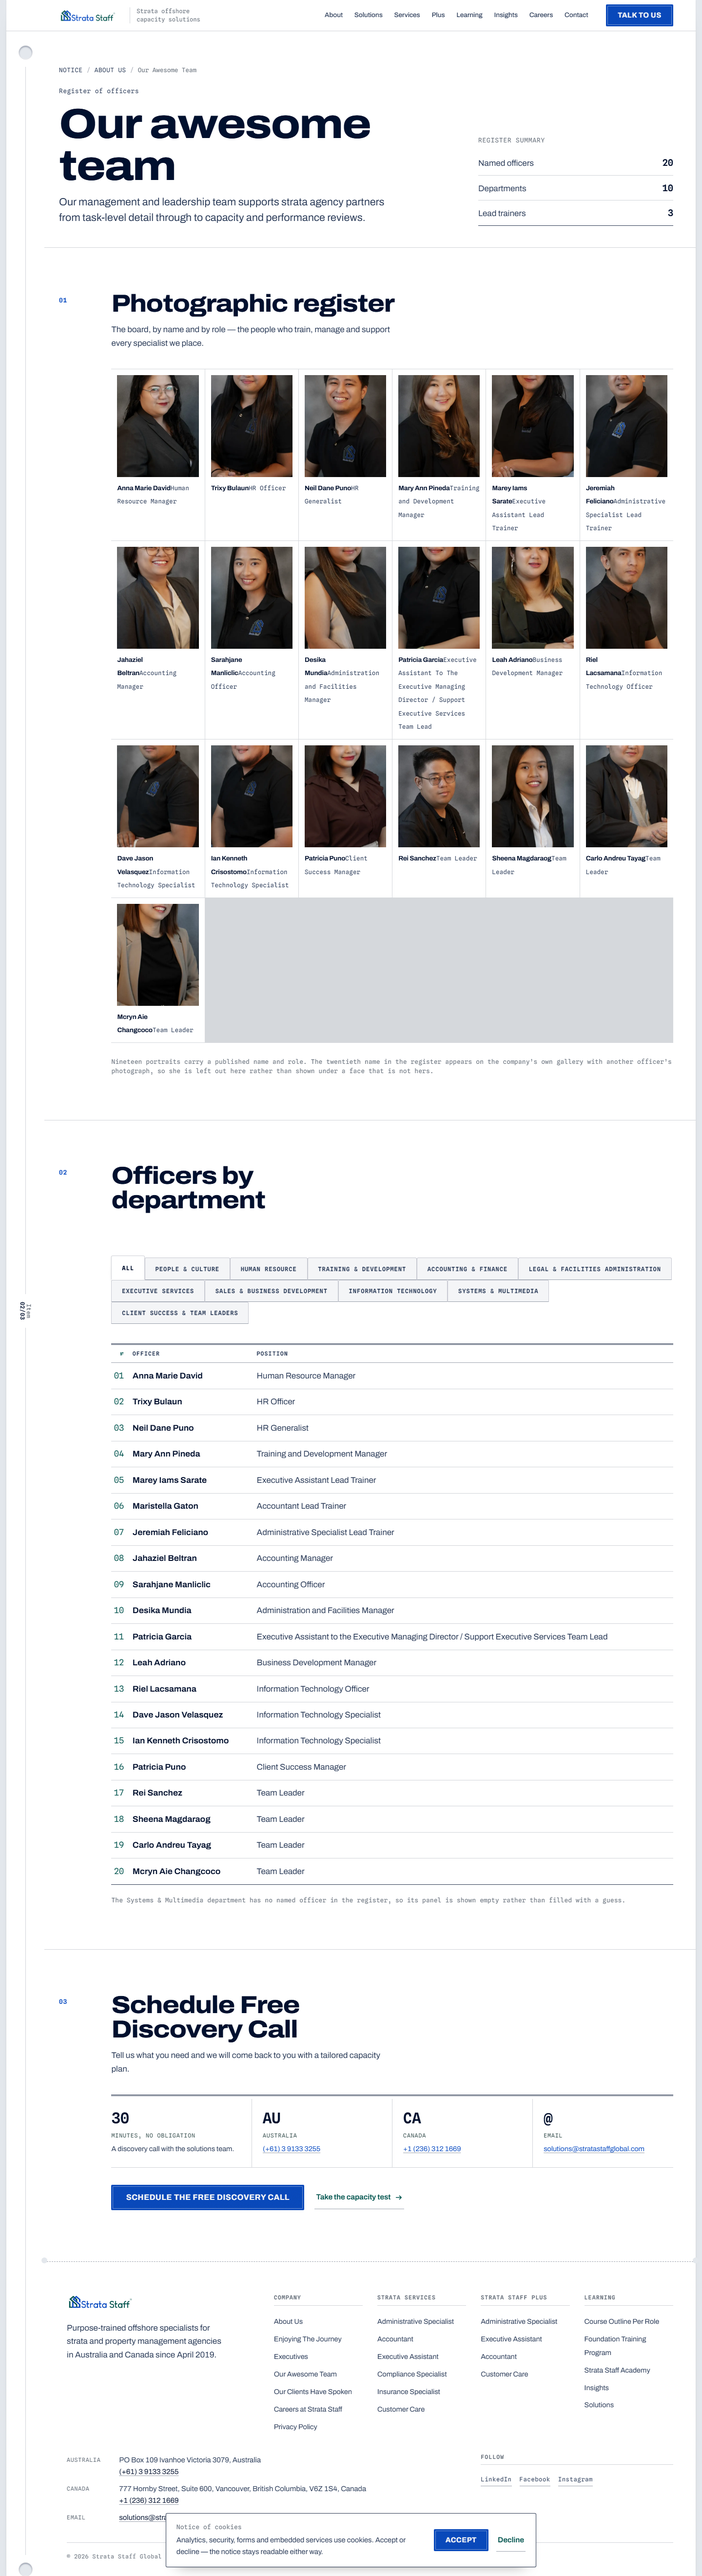
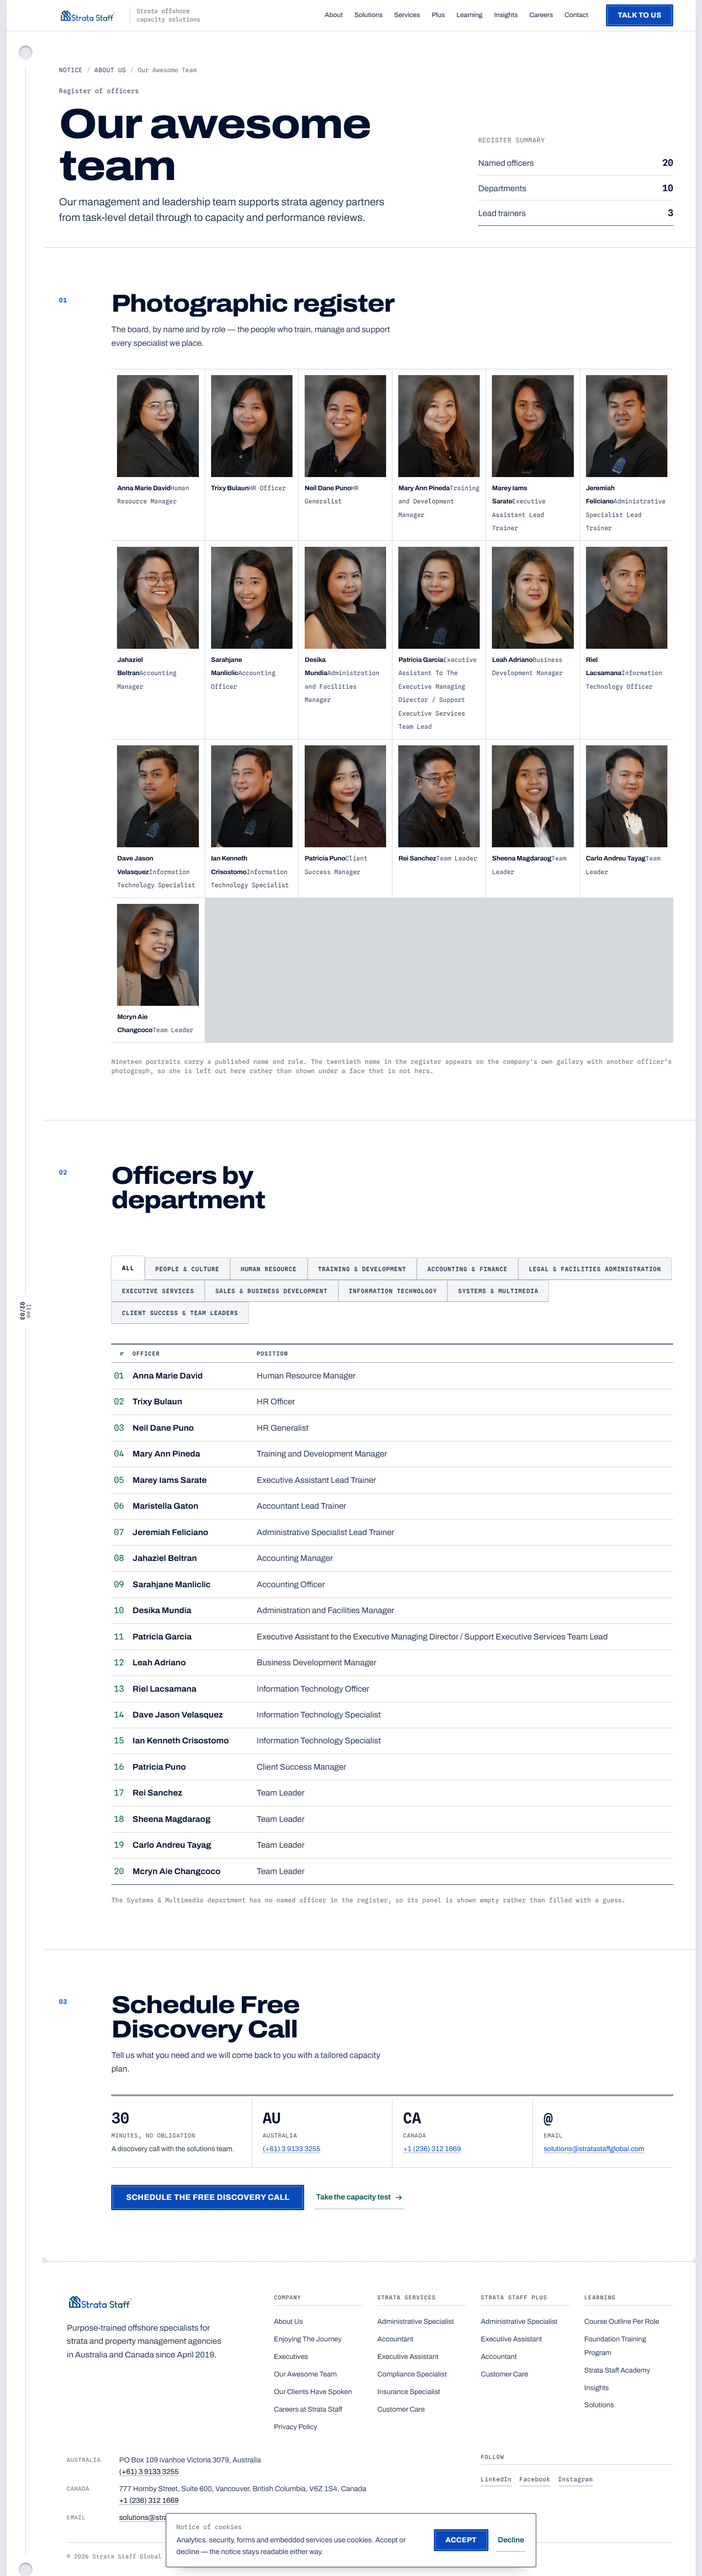
Record the face-framing pass in DESIGN.md, README.md and design.json
DESIGN.md gains section 14: the two measurement bugs that made the first check
report success, the centroid framing that cut eleven heads, the raw-source
measurement that settled the crop rule, the two selection bugs, the circles, and
how to check this without trusting the detector.

README.md gains a Faces subsection and four honest limitations: the two portraits
cropped at their source's limit, the detector being a heuristic, and the two
source-limited sub-1x densities.

design.json gains faceFraming and imagery.faceFraming, and four tool entries.
Written by strata-scan/update-design-5.mjs so the existing 17 keys survive; all
still present, components still a 43-item array.

diff --git a/DESIGN.md b/DESIGN.md
@@ -1014,4 +1014,135 @@ end), `academy.html` (enrolment particulars and a form; the role tracks are on
 `role-pm-customer-care.html`, for which the incumbent publishes no photograph —
 those keep the stamp rather than borrowing another role's face.
 
+## 14. Faces: the portraits were framing on a centroid, not on a head
+
+Asked to make sure the faces are shown properly. Answering that honestly meant
+building a detector first, because the check I had was not measuring faces.
+
+### The check was wrong, and it said so twice
+
+The first version found a "face" with the YCbCr skin-tone test carried over from
+`faces.py`. On these photographs it returned a box spanning the **entire frame** at
+11–34% coverage, because that test also fires on warm walls, timber and beige office
+background. Built on it, the check reported **79 clipped faces**, none of which were
+clipped, and it reported them with confident per-file detail.
+
+It was replaced with OpenCV Haar cascades, frontal and profile, pooled over nine
+parameter sets and filtered by shape. One setting alone missed real faces — 11 of the
+19 officers — and loosening without the shape filter invents them, which is how an
+earlier run put "the face" of one officer in the top 12% of her portrait on the
+strength of a light fitting. A face in these frames is a substantial part of the
+picture, so a detection under a tenth of the height is not one.
+
+Two more bugs in the tooling, both caught by reading the output instead of trusting
+it:
+
+- The crop records are keyed by basename and the face boxes by path, so the join
+  matched **36 of 535** images — only the files sitting at the top of `assets/`. It
+  then announced, on that evidence, that no face was clipped.
+- Density was computed from `naturalWidth`. With a `srcset` of `w` descriptors and a
+  `sizes` attribute, Chrome reports `naturalWidth` already divided by the effective
+  density, so dividing by the CSS box width applies the correction twice and invents
+  softness. It called `accountant-400` — a 400×500 file in a 320×400 box — an upscale
+  at "0.73×". Eleven of the reported thirteen were this artefact. The real figure is
+  read from the file's own dimensions.
+
+A measurement tool that flatters the thing it measures is worse than no tool. Both
+of these reported success.
+
+### What the detector found
+
+**Seven of the nineteen officers, and four more portraits, were shipping with the top
+of the head cut off** — and the layout then removed another 3.1% in the 4:5 boxes.
+`neil-dane-puno` had 0.000 headroom where his source had 0.135.
+
+The cause was `frame()` in `strata-scan/optimise.py`:
+
+```python
+top = round((fy * H) - FACE_BIAS * ch)
+```
+
+`fy` is the **skin-tone centroid**, and it is dragged downward by the neck, the hands,
+and any warm background. For a subject in a light top it sat well below the face, the
+crop followed it down, and the head went off the top. Recording where a face *is* is
+not the same as knowing where a head *ends*.
+
+### The rule the material implies
+
+Rather than keep tuning the detector, every raw source was measured for where its
+head actually sits:
+
+| | Headroom in the raw, as a fraction of height |
+| --- | --- |
+| Minimum | **0.024** (`exec-trevor`) |
+| Median | **0.097** |
+| Maximum | 0.148 |
+
+All 31 sources keep the head inside the top 15%. The margin a brow needs above the
+detected box is larger than that, so the constraint is always active and **the window
+is top-anchored for this material**. That is the right answer rather than a
+workaround: these are portraits cropped from taller pictures, so the head is at the
+top and everything worth keeping is below it.
+
+Two sources — Mary Ann Pineda and Trevor — have the head at the very top of the
+download, where **no crop can create headroom**. They now sit at their source's floor
+instead of below it. `mary-ann-pineda` went from 0.008 to 0.064.
+
+Two selection bugs surfaced on the way, both the same mistake in different clothes:
+
+- **Largest detection wins** picked a torso over the face on `team-accountant`, whose
+  raw yields a face box at y 0.072–0.384 and a bigger torso at y 0.382–0.762.
+- **Largest in the upper half** still admitted a torso centred at 0.502 on
+  `carlo-andreu-tayag`, which is why his head shipped cut at 0.005 while his source
+  had room to spare.
+
+The rule is now **the highest plausible detection**, which is what a single-subject
+portrait implies: the head is the topmost face-like blob.
+
+### The circles
+
+`.stmt__sig img` carried `border-radius: 50%`, showing nine real clients through a
+round mask. A round crop is the avatar idiom, and an avatar is what you show when you
+have no photograph. We have the photographs; the corners come off a face for no reason
+but convention. The rule now reads:
+
+```css
+.stmt__sig img {
+  width: 68px; height: 68px; object-fit: cover;
+  border: 1px solid var(--rule); filter: saturate(.9);
+}
+```
+
+The only two circles left in the stylesheet are `.hole` (a punched hole) and
+`.perf::before/after` (perforation dots). Those are paper, not people.
+
+### The numbers
+
+| Measure | Before | After |
+| --- | --- | --- |
+| Portraits under 5% headroom (of 43) | 11 | **1** |
+| Portraits under 3.5% headroom | 7 | **1** |
+| Faces clipped by a box, 1440px and 390px | 79 *reported* | **0** |
+| Client faces behind a circular mask | 9 | **0** |
+| Face centre position, median | 38% (intended) | 35% (measured) |
+
+The one remaining tight portrait is Trevor, at 2.4%, which is his source's limit.
+
+### How to check this without trusting the detector
+
+`tools/face-verify.mjs` joins the browser's measured crop rectangles against the
+detected face boxes, and exits non-zero on a clipped or masked face. It reports the
+*tight* cases rather than hiding them, because a margin is not a failure.
+
+But it is a heuristic, so `tools/contact-sheet.py` renders every crop — using the real
+visible rectangles the browser reported, not a second guess at the CSS — and marks the
+detected face, for a person to look at. **Read the contact sheet, not the exit code.**
+If the blue outline is not on a face, the measurement is wrong rather than the crop,
+and that is exactly the failure this pair of tools is built to expose.
+
+Two sub-1× densities remain and both are source-limited: `marisol-office` is a 1024px
+original in a 1248px box and `connect-q1-q2-2024` a 600px original in a 758px box, with
+nothing larger published to serve. Recorded rather than hidden.
+
+
 

diff --git a/README.md b/README.md
@@ -177,6 +177,33 @@ node tools/post-check.mjs      # the rendered srcset agrees with the file's real
 node tools/imagery-audit.mjs   # which pages carry photography, and which say why not
 ```
 
+### Faces
+
+Every portrait is cropped so the head is in frame, and this is measured rather than
+assumed. `strata-scan/face-boxes.py` finds the face in each shipped file with OpenCV
+Haar cascades (frontal and profile, pooled over nine parameter sets and filtered by
+shape); `tools/face-check.ps1` drives headless Chrome over all 40 pages at two
+viewports and records the rectangle each image actually shows; and
+`tools/face-verify.mjs` joins the two and exits non-zero on a face that is clipped or
+behind a round mask.
+
+```
+python strata-scan/face-boxes.py                      # where the faces are
+powershell -File tools/face-check.ps1 -Viewports "1440x900,390x844"
+node tools/face-verify.mjs                            # 215 faces, 0 clipped, 0 masked
+```
+
+**The detector is a heuristic, so the check is a contact sheet.** Run
+`python tools/contact-sheet.py` to render every crop — using the browser's own
+measured rectangles — with the detected face outlined, and look at it. If the outline
+is not on a face the measurement is wrong rather than the crop, which is the failure
+the pair of tools exists to expose. The earlier skin-tone version of this check
+reported 79 clipped faces that were not clipped, and a key-mismatch bug in the join
+once tested 36 images out of 535 while announcing the site clean.
+
+Eleven of the 43 portraits were shipping with the head cut; one still is, at 2.4%,
+which is the limit of its own download. `DESIGN.md` §14 has the account.
+
 **Every file, not just every set.** `assets/PROVENANCE.json` carries one row per
 shipped asset — its source URL, or its authorship — because "all raster assets are
 the incumbent's own files" is a claim about a set and cannot fail when one file is
@@ -236,6 +263,20 @@ beside their own visible captions — carry an empty one.
   nothing the surrounding text does not, and nobody here has looked at them, so
   any description would have been invented. The named portraits are the exception
   and carry their name and role.
+- **Two portraits are cropped at their source's limit.** Trevor and Mary Ann
+  Pineda have the top of the head within 2.4% and 4.2% of the top of the file the
+  incumbent publishes. The re-crop puts them there rather than below it, but no
+  crop can create headroom the download does not contain; a larger original would
+  be needed.
+- **The face check is a heuristic.** It is an OpenCV Haar detector, not a
+  face-recognition model, and it is wrong on a minority of frames — which is why
+  it ships with a contact sheet to look at rather than only an exit code. An
+  earlier skin-tone version of the same check reported 79 clipped faces that were
+  not clipped.
+- **Two images are served slightly above their file width**, at 0.82× and 0.79×:
+  `marisol-office` (1024px original) and `connect-q1-q2-2024` (600px original).
+  Nothing larger is published upstream, so the alternatives are a softer image or
+  a narrower layout, and the layout was kept.
 - **`Strata Executive Assistant` has no page in the live sitemap**, though the
   navigation lists it. That role page is built only from real published phrases
   and its real five training modules.
